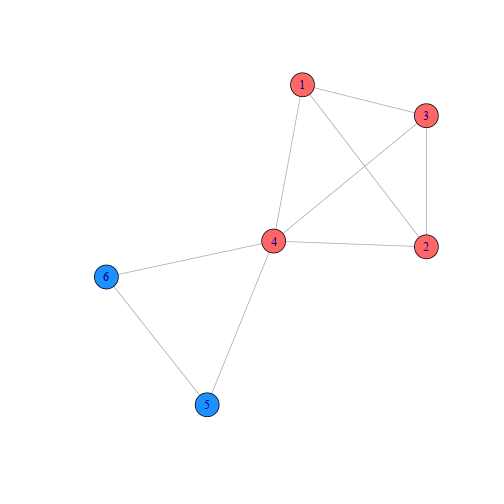
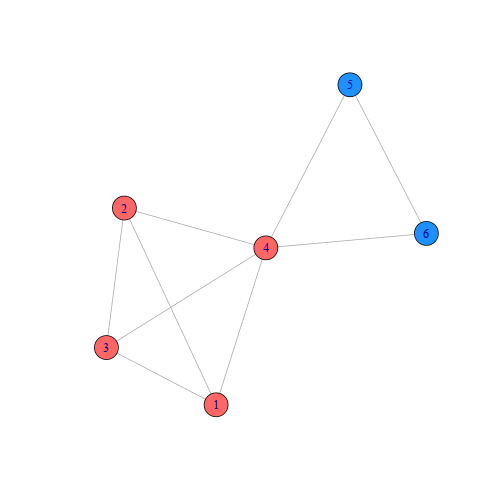
Updated plots for clique section

diff --git a/07-mejn-measures-and-metrics-ii/README.md b/07-mejn-measures-and-metrics-ii/README.md
@@ -61,20 +61,32 @@ adj.matrix
 # convert to graph
 g = graph.adjacency(adj.matrix, mode = "undirected")
 
-# find all cliques
-g.cliques = maximal.cliques(g)
-
-# color nodes in first clique matched
-V(g)$color = ifelse(V(g) %in% g.cliques[[1]], "#1E90FF", "#FF1493")
-
-# color nodes in multiple cliques purple
-V(g)[V(g) %in% intersect(g.cliques[[1]], g.cliques[[2]])]$color = "#8C14FF"
-
-# plot cliques
+# plot graph
 plot(g)
 ```
 
-![plot of chunk clique](figure/clique.png) 
+![plot of chunk clique](figure/clique1.png) 
+
+```r
+
+# find all cliques
+g.cliques = maximal.cliques(g)
+
+# plot first clique matched
+V(g)$color = ifelse(V(g) %in% g.cliques[[1]], "#FF1493", "#7EC0EE")
+plot(g)
+```
+
+![plot of chunk clique](figure/clique2.png) 
+
+```r
+
+# plot second clique matched
+V(g)$color = ifelse(V(g) %in% g.cliques[[2]], "#FF1493", "#7EC0EE")
+plot(g)
+```
+
+![plot of chunk clique](figure/clique3.png) 
 
 
 - In the above figure, nodes 1-4 and 4-6 each form separate cliques
